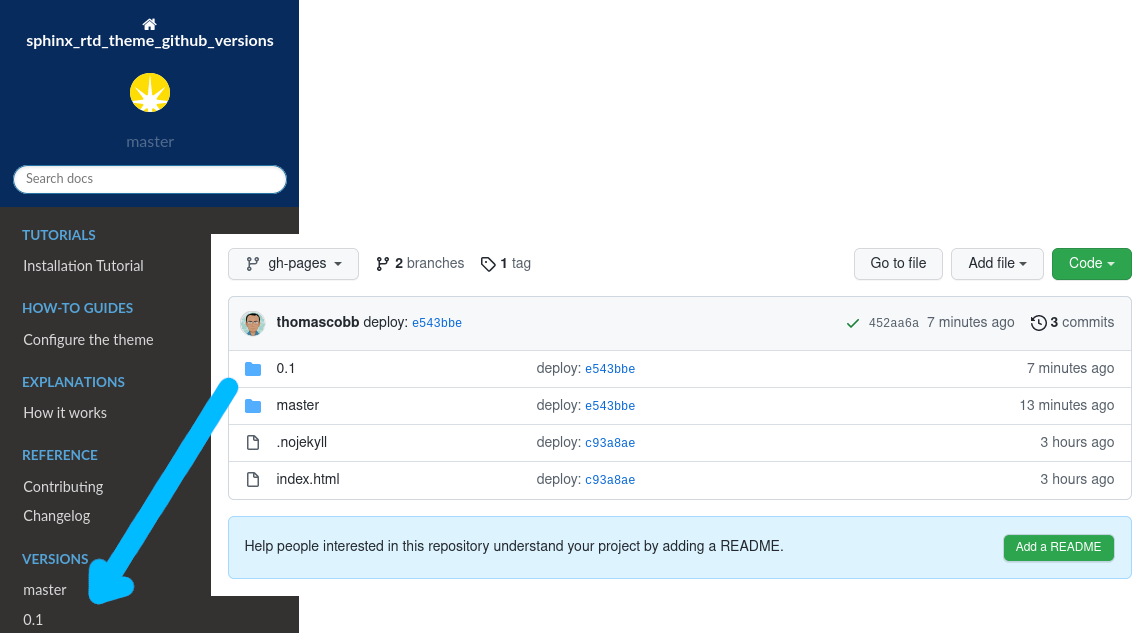
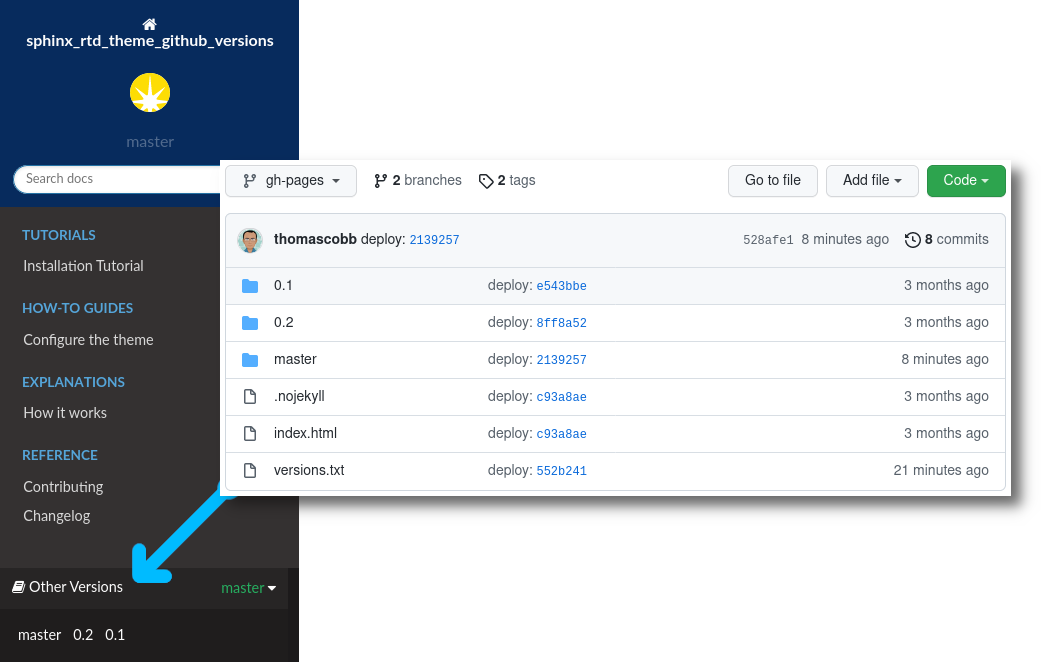
Other versions from static versions.txt rather than Github API

Changed region(s): [[0.0, 0.0, 1.0, 1.0], [0.707, 0.2394, 0.7685, 0.2992], [0.4611, 0.4189, 0.5533, 0.4488]]

diff --git a/sphinx_rtd_theme_github_versions/layout.html b/sphinx_rtd_theme_github_versions/layout.html
@@ -1,39 +1,31 @@
 {% extends "sphinx_rtd_theme/layout.html" %}
-{% block menu %}
+{% block footer %}
   {{ super() }}
-  <!-- Add versions for selected branches + tags -->
-  <p class="caption">
-    <span class="caption-text">Versions</span>
-  </p>
-  <ul id="versions"/>
+  <div id="other-versions-div" class="rst-versions" data-toggle="rst-versions" role="note" aria-label="Versions" style="visibility: hidden">
+    <span class="rst-current-version" data-toggle="rst-current-version">
+      <span class="fa fa-book"> Other Versions</span>
+      {{ version }}
+      <span class="fa fa-caret-down"></span>
+    </span>
+    <div class="rst-other-versions">
+      <dl id="other-versions-dl"/>
+    </div>
+  </div>
   <script>
-    // Add any branches to appear in the side pane here, tags will be added below
-    // Will only appear if docs are built and pushed in gh-pages
-    var versions = {{ theme_versions_branches.split() }};
-    var dirs = new Set();
     function addVersion(name) {
-      if (dirs.has(name)) {
-        var li = document.createElement("li");
-        var a = document.createElement("a");
-        a.href = 'https://{{ theme_github_org }}.github.io/{{ project }}/' + name;
-        a.innerText = name;
-        li.appendChild(a)
-        document.getElementById('versions').appendChild(li);
-      }
+      var dd = document.createElement("dd");
+      var a = document.createElement("a");
+      a.href = "{{ pathto('..', 1) }}/" + name;
+      a.innerText = name;
+      dd.appendChild(a);
+      document.getElementById('other-versions-dl').appendChild(dd);
     }
-    Promise.all([
-      // Find gh-pages directories and populate `dirs`
-      fetch("https://api.github.com/repos/{{ theme_github_org }}/{{ project }}/contents?ref=gh-pages")
-      .then(response => response.json())
-      .then(data => data.forEach(function(e) {
-        if (e.type == "dir") dirs.add(e.name);
-      })),
-      // Add tags to `versions`
-      fetch('https://api.github.com/repos/{{ theme_github_org }}/{{ project }}/tags')
-        .then(response => response.json())
-        .then(data => data.forEach(function(e) {
-          versions.push(e.name);
-        }))
-      ]).then(_ => versions.forEach(addVersion))
+    // Get versions.txt and add a version for each line
+    fetch("{{ pathto('../versions.txt', 1) }}").then(response => {
+      if (response.ok) {
+        document.getElementById('other-versions-div').style.visibility = "visible";
+        return response.text().then(text => text.split(/\r?\n/).forEach(addVersion))
+      }
+    });
   </script>
 {% endblock %}

diff --git a/sphinx_rtd_theme_github_versions/__main__.py b/sphinx_rtd_theme_github_versions/__main__.py
@@ -1,0 +1,77 @@
+import logging
+from argparse import ArgumentParser
+from pathlib import Path
+from subprocess import CalledProcessError, check_output
+from typing import List
+
+from sphinx_rtd_theme_github_versions import __version__
+
+
+def get_branch_contents(ref: str) -> List[str]:
+    """Get the list of directories in a branch."""
+    stdout = check_output(["git", "ls-tree", "-d", "--name-only", ref])
+    return stdout.decode().strip().split("\n")
+
+
+def get_sorted_tags_list() -> List[str]:
+    """Get a list of sorted tags in descending order from the repository."""
+    stdout = check_output(["git", "tag", "-l", "--sort=-v:refname"])
+    return stdout.decode().strip().split("\n")
+
+
+def make_versions_file(directory: Path, remote: str, branch: str):
+    """Generate the file containing the list of all GitHub Pages builds."""
+    # Get the directories (i.e. builds) from the GitHub Pages branch
+    try:
+        builds = set(get_branch_contents(f"{remote}/{branch}"))
+    except CalledProcessError:
+        builds = set()
+        logging.warning("Cannot get gh-pages branch contents")
+
+    # Add in any directories we're about to publish
+    for child in directory.iterdir():
+        if child.is_dir():
+            builds.add(child.name)
+
+    # Get a sorted list of tags
+    tags = get_sorted_tags_list()
+
+    # Make the sorted versions list from main branches and tags
+    versions: List[str] = []
+    for version in ["master", "main"] + tags:
+        if version in builds:
+            versions.append(version)
+            builds.remove(version)
+
+    # Add in anything that is left to the bottom
+    versions += sorted(builds)
+
+    # Write the versions file
+    (directory / "versions.txt").write_text("\n".join(versions) + "\n")
+
+
+def main(args=None):
+    parser = ArgumentParser(
+        description="Make a versions.txt file from gh-pages directories"
+    )
+    parser.add_argument("--version", action="version", version=__version__)
+    parser.add_argument(
+        "--remote", default="origin", help="Remote to get branch from, default origin"
+    )
+    parser.add_argument(
+        "--branch",
+        default="gh-pages",
+        help="Branch to get built documentation from, default gh-pages",
+    )
+    parser.add_argument(
+        "output",
+        type=Path,
+        help="Path of the directory to place versions.txt in. "
+        "Subdirectories will also appear in versions.txt",
+    )
+    args = parser.parse_args(args)
+    make_versions_file(args.output, args.remote, args.branch)
+
+
+if __name__ == "__main__":
+    main()

diff --git a/tests/test_sphinx_rtd_theme_github_versions.py b/tests/test_sphinx_rtd_theme_github_versions.py
@@ -1,8 +1,11 @@
 from io import StringIO
 from pathlib import Path
+from unittest.mock import patch
 
 import pytest
 from sphinx.testing.util import SphinxTestApp
+
+from sphinx_rtd_theme_github_versions.__main__ import get_sorted_tags_list, main
 
 
 @pytest.mark.sphinx("html", testroot="dls-defaults")
@@ -11,7 +14,29 @@ def test_dls_defaults(app: SphinxTestApp, status: StringIO, warning: StringIO) -
     assert app.builder
     app.builder.build_all()
     html = open(Path(app.outdir) / "index.html").read()
-    assert "var versions = ['main', 'master'];" in html
+    assert "other-versions-dl" in html
     assert (
         '<div class="wy-side-nav-search"  style="background: rgb(7, 43, 93)" >' in html
     )
+
+
+@patch("sphinx_rtd_theme_github_versions.__main__.get_sorted_tags_list")
+@patch("sphinx_rtd_theme_github_versions.__main__.get_branch_contents")
+def test_versions_txt(get_branch_contents, get_sorted_tags_list, tmp_path: Path):
+    (tmp_path / "0.3").mkdir()
+    get_branch_contents.return_value = ["0.1", "master", "0.2", "wip"]
+    get_sorted_tags_list.return_value = ["0.3", "0.2", "0.1"]
+    main([str(tmp_path)])
+    lines = (tmp_path / "versions.txt").read_text().splitlines()
+    assert lines == ["master", "0.3", "0.2", "0.1", "wip"]
+
+
+def test_git_tags():
+    assert "0.2" in get_sorted_tags_list()
+
+
+def test_no_gh_pages(tmp_path: Path):
+    (tmp_path / "master").mkdir()
+    main([str(tmp_path), "--remote", "a-non-existant-remote"])
+    lines = (tmp_path / "versions.txt").read_text().splitlines()
+    assert lines == ["master"]

diff --git a/docs/explanations/how-it-works.rst b/docs/explanations/how-it-works.rst
@@ -1,13 +1,30 @@
 How it works
 ============
 
-The theme works by injecting some javascript that populates the version list
-at runtime. This javascript does the following:
+The theme comes in two parts:
 
-- Fetch the set of all directories in the ``gh-pages`` branch of the ``project`` repo in `github_org`
-- Take the `versions_branches`, and add the names of all the tags in that repo
-- Make a link to github.io for each version that has a directory in ``gh-pages``
+- A commandline script that generates a ``versions.txt`` file at documentation
+  build time
+- A bit of javascript that populates the versions section of the
+  sidebar at runtime
 
-You should make sure that there are appropriately named branches in the
-``gh-pages`` branch by doing something like
+Commandline script
+------------------
+
+This works by writing a ``versions.txt`` file alongside the build documentation
+directories that are pushed to the ``gh-pages`` branch. These are ordered:
+
+- main or master branch
+- tags in descending order
+- other branches
+
+This generation should be run at CI time using something like this:
+
 https://github.com/dls-controls/sphinx_rtd_theme_github_versions/blob/master/.github/workflows/docs.yml
+
+Javascript population
+---------------------
+
+This works by fetching ``../versions.txt`` and populating an ``Other Versions``
+section of the side-bar with the contents. If the fetch fails the that section
+is hidden.

diff --git a/docs/how-to/configure-the-theme.rst b/docs/how-to/configure-the-theme.rst
@@ -1,36 +1,17 @@
 Configure the theme
 ===================
 
-The following options can be defined in your project's ``conf.py`` file, using
-the :confval:`html_theme_options <sphinx:html_theme_options>` configuration option.
+Theme options can be defined in your project's ``conf.py`` file, using the
+:confval:`html_theme_options <sphinx:html_theme_options>` configuration option.
+
+This theme does not add any options, but all `sphinx_rtd_theme options
+<sphinx_rtd_theme:configuring>` like :std:confval:`style_nav_header_background`
+are supported.
 
 For example:
 
 .. code-block:: python
 
     html_theme_options = {
-        'versions_branches': 'main master',
-        'github_org': 'dls-controls',
+        "style_nav_header_background": "rgb(7, 43, 93)"
     }
-
-
-Theme Options
--------------
-
-.. confval:: versions_branches
-
-    The branches that should appear top of the list of versions before all the
-    tags. Should be supplied as a space separated string.
-
-    :type: str
-    :default: ``"main master"``
-
-.. confval:: github_org
-
-    The github organization that the repo is hosted under
-
-    :type: str
-    :default: ``"dls-controls"``
-
-All other `sphinx_rtd_theme options <sphinx_rtd_theme:configuring>` like
-:std:confval:`style_nav_header_background` are also supported.

diff --git a/docs/tutorials/installation.rst b/docs/tutorials/installation.rst
@@ -42,6 +42,10 @@ from github::
 
     python3 -m pip install git+git://github.com/dls-controls/sphinx_rtd_theme_github_versions.git
 
+The library should now be installed and the commandline interface on your path.
+You can check the version that has been installed by typing::
+
+    sphinx_rtd_theme_github_versions --version
 
 Including in Sphinx Documentation
 ---------------------------------
@@ -53,3 +57,12 @@ Set the theme by declaring the `html_theme` in your ``conf.py`` file:
     html_theme = "sphinx_rtd_theme_github_versions"
 
 See `../how-to/configure-the-theme` for more details on configuring the theme
+
+Deployment
+----------
+
+At development time you will not see any version section as there is only one
+version of the documentation. For it to be active there must be a
+``versions.txt`` file alongside the built documentation.
+
+See `../explanations/how-it-works` for details on how to add this.

diff --git a/CHANGELOG.rst b/CHANGELOG.rst
@@ -10,7 +10,9 @@ and this project adheres to `Semantic Versioning <https://semver.org/spec/v2.0.0
 Unreleased_
 -----------
 
-Nothing yet
+Changed:
+
+- Other versions from static versions.txt rather than Github API
 
 
 0.2_ - 2021-09-22
